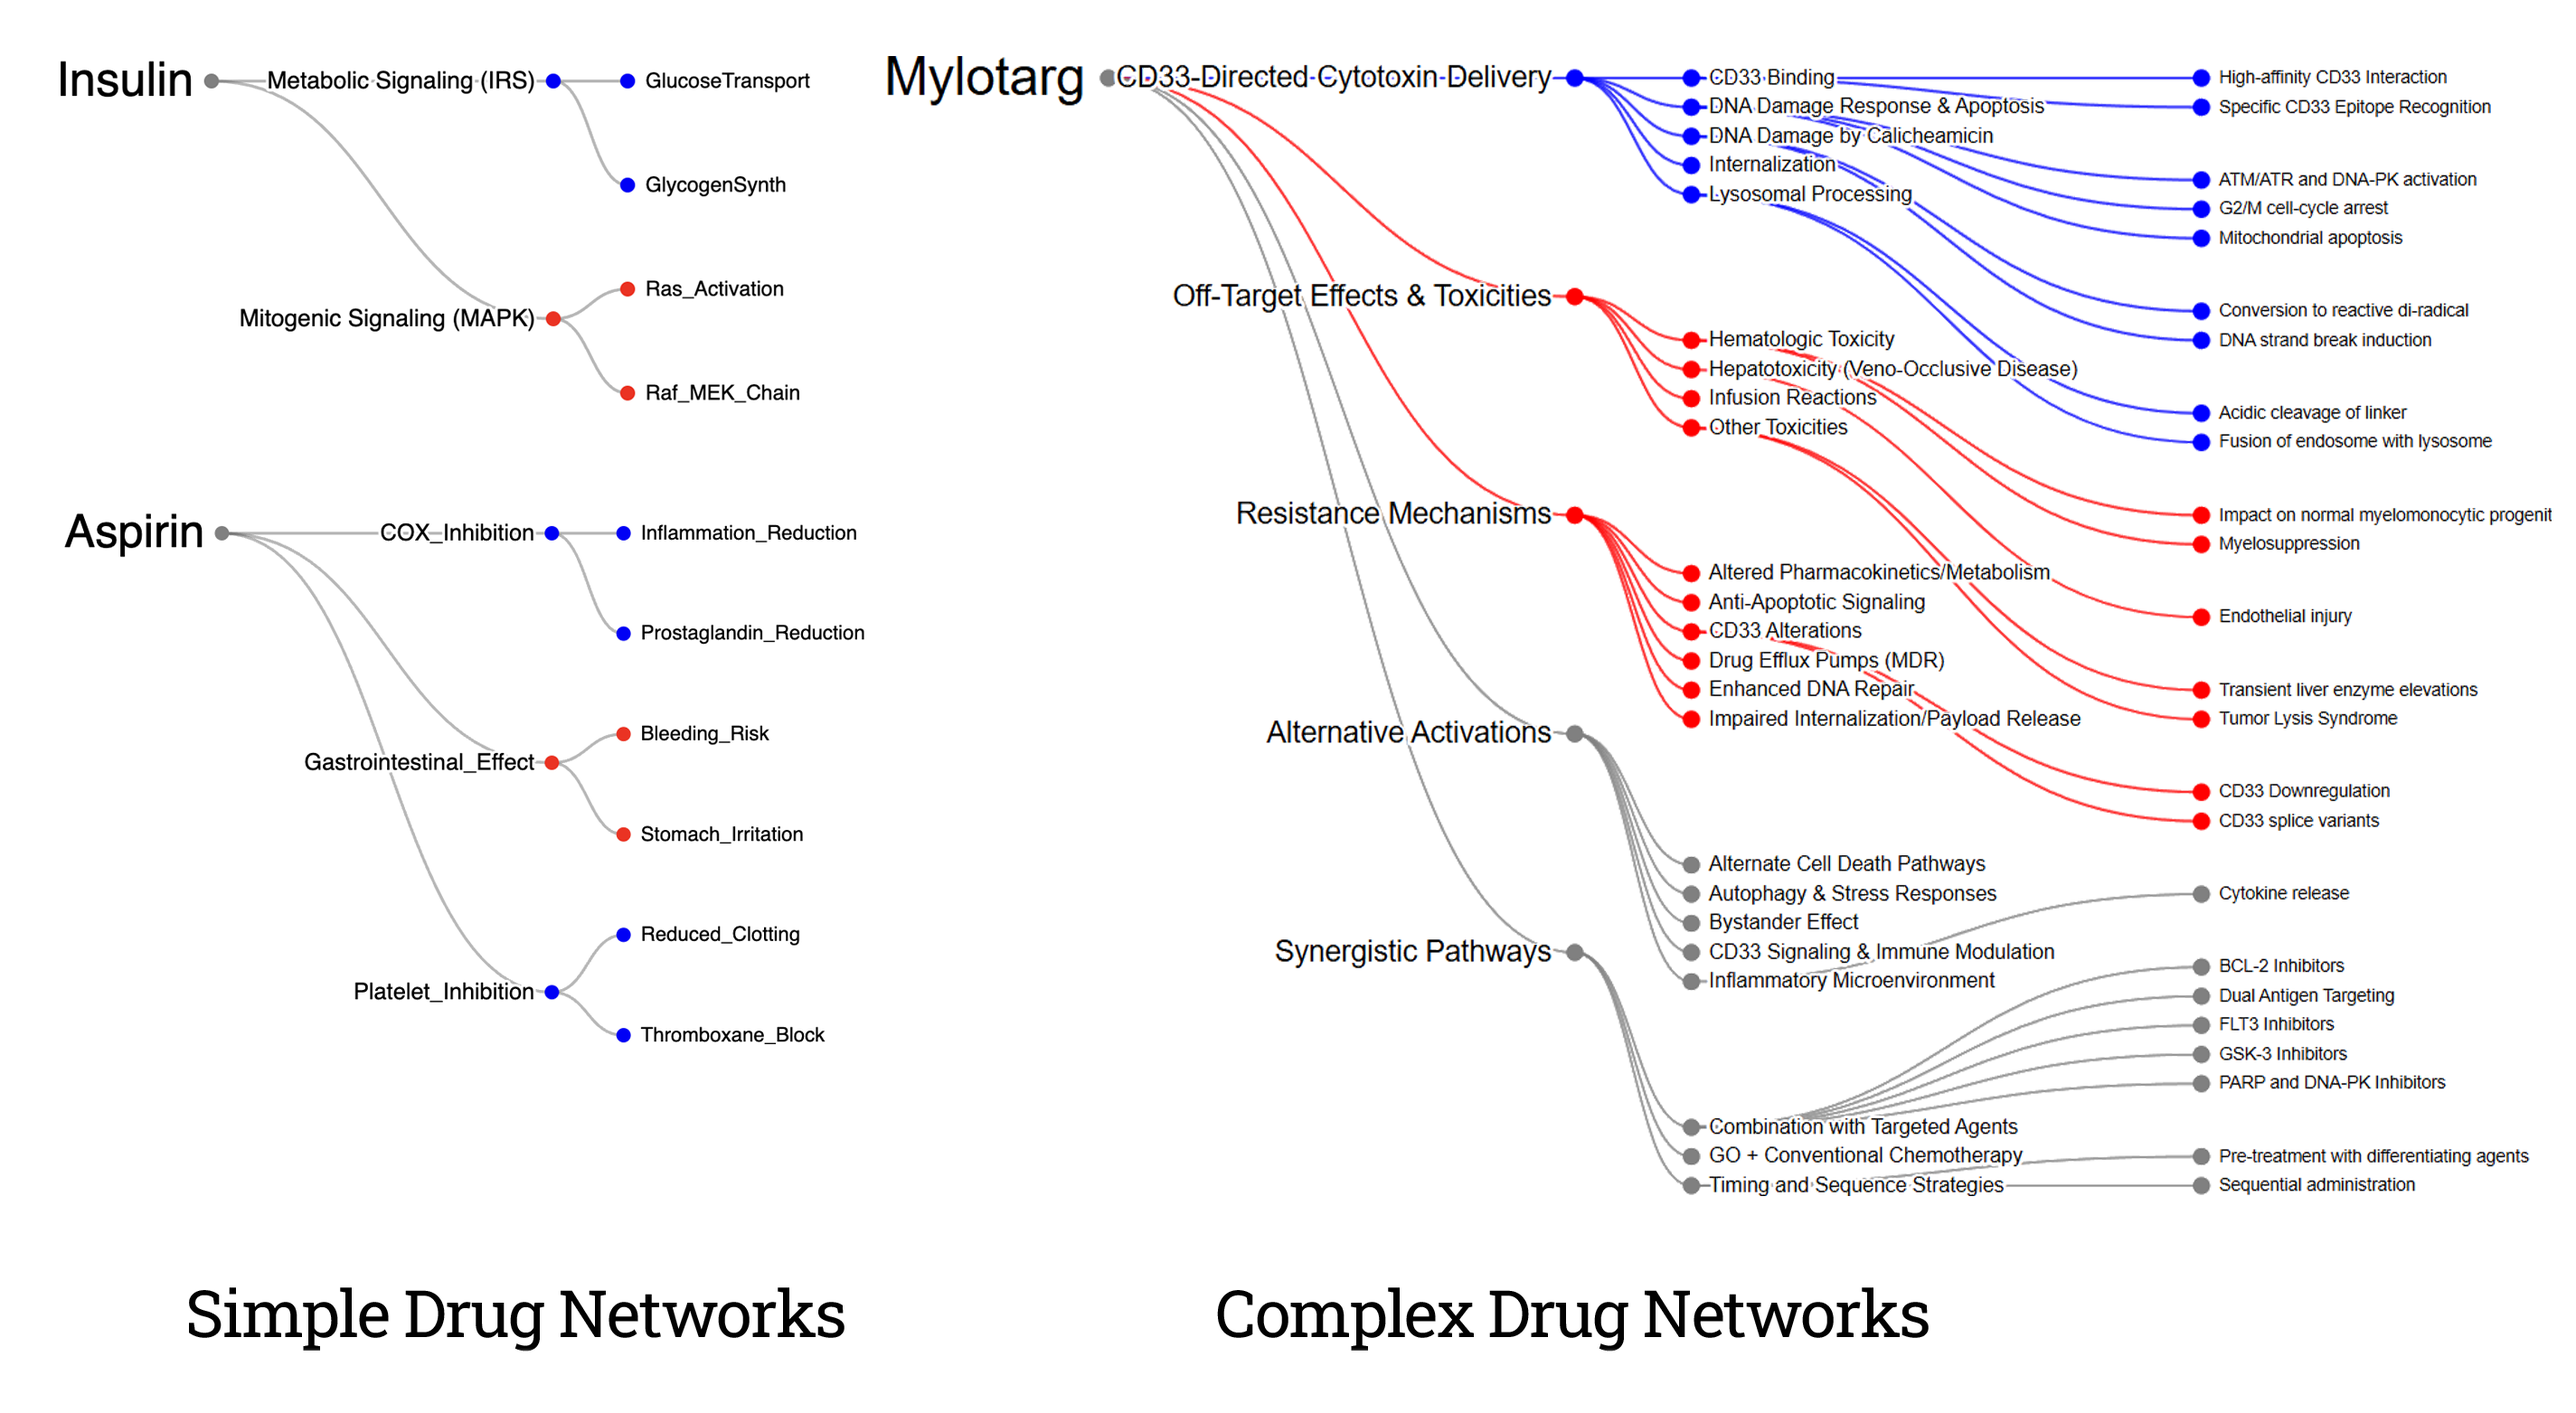
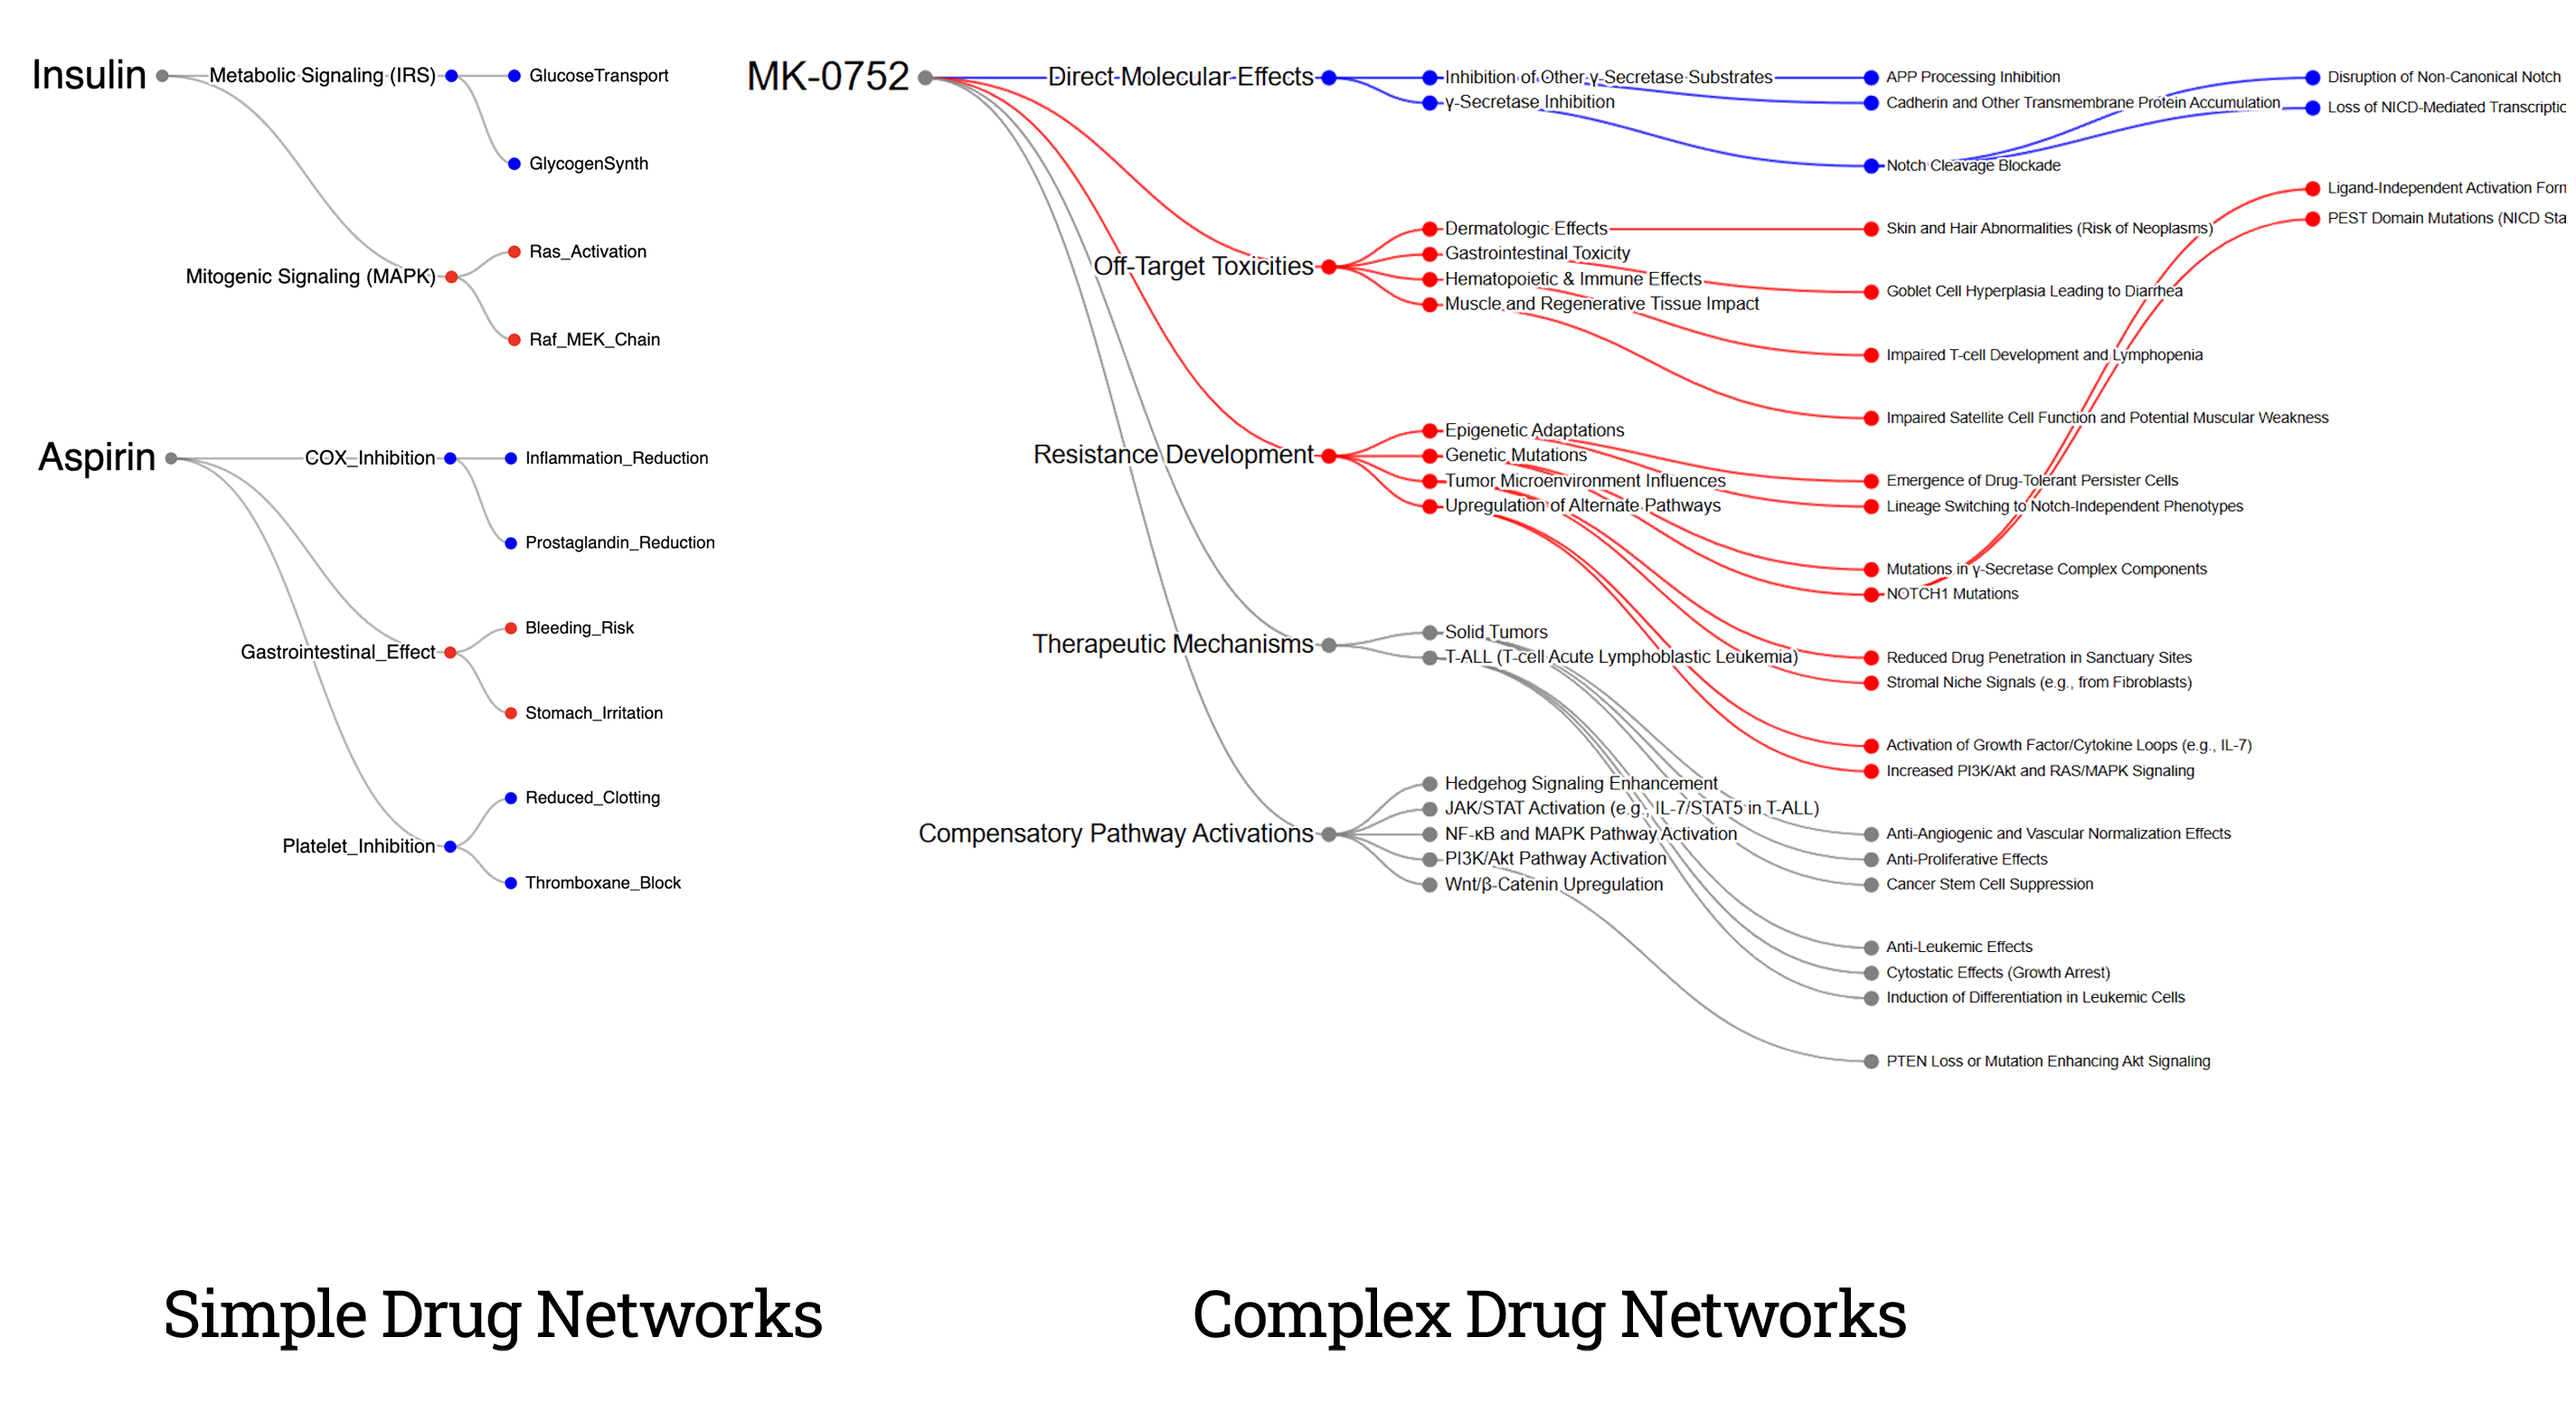
overview update

diff --git a/src/app/dataroom/docs/A_Overview/B_Overall_Summary.tsx b/src/app/dataroom/docs/A_Overview/B_Overall_Summary.tsx
@@ -9,7 +9,7 @@ const OverallSummary: React.FC = () => {
         From a Bird&#39;s-Eye View:
       </h2>
 
-      <p className="roboto-slab-light text-base mb-10 mt-12 leading-relaxed">
+      <p className="roboto-slab-light text-base mb-4 mt-12 leading-relaxed">
         <strong> Most of biology is too complicated </strong> for humans to understand and engineer predictably. 
         While drug development strategies may be derived from good science, most success stories 
         are the result of painful trial and error. The failure rate of modern clinical trials is a 
@@ -31,7 +31,7 @@ const OverallSummary: React.FC = () => {
       </p>
 
       
-      <p className="roboto-slab-light text-base text-verydark mb-2 mt-10 leading-relaxed">
+      <p className="roboto-slab-light text-base text-verydark mt-16 leading-relaxed">
         <strong>Tactically speaking, </strong> we&#39;re starting by training our models on the &#39;action&#39; 
         layer of biology -- the transcriptome. It&#39;s one of the most fundamental, diverse, 
         and data-scalable signatures of activity within and between cells.
@@ -39,28 +39,31 @@ const OverallSummary: React.FC = () => {
         especially when large pools of diverse training data are available.
       </p>
 
-      <p className="roboto-slab-light text-base text-verydark mb-4 mt-2 leading-relaxed">
-        <strong>We&apos;re beginning by </strong> harvesting publicly available multi-species scRNA (single cell RNA) 
-        datasets with a bias toward human and
-        <strong><i> Danio rerio</i> (zebrafish)</strong> as the foundation. 
+      <p className="roboto-slab-light text-base text-verydark mt-6 leading-relaxed">
+        Fortunately there are a lot of publicly available multi-species scRNA (single cell RNA) 
+        datasets. We&apos;re harvesting across vertebrate and invertebrate species with a bias toward human and
+        <strong><i> Danio rerio</i> (zebrafish)</strong> for our early MVPs. As we 
+        grow and learn about the gaps we&apos;ll generate custom datasets to fill them.
       </p>
         
-      <p className="roboto-slab-light text-base text-verydark mb-4 mt-2 leading-relaxed">
+      <p className="roboto-slab-light text-base text-verydark mb-4 mt-6 leading-relaxed">
         <strong>Why the bias toward zebrafish? </strong>
         We&apos;re confident custom data will be necessary to strengthen our models as we specialize them
         toward state-of-the-art performance on a drug-by-drug basis.
         We&apos;ve selected zebrafish as the optimal model organism for custom data generation because
-        it is the most human-like model organism that is low-cost, high-scale, and increasingly popular
-        in FDA-approved pre-clinical settings. 
+        it is the most human-like model organism that is also low-cost, high-scale, and increasingly popular
+        in FDA-approved pre-clinical settings. Technically speaking, it&apos;s also possible to do scRNA
+        sequencing on whole-organism zebrafish, which means crucial cross-organ relationships are capturable,
+        a feature not possible at reasonable prices with mice.  
       </p>
       
       <p className="roboto-slab-light text-base text-verydark mb-2 mt-10 leading-relaxed">
-        <strong> We will run the data cycle continuously </strong> over the life of the 
-        company to keep improving our biological foundation models. 
+        <strong> We will run our data cycle continuously </strong> over the life of the 
+        company to keep improving our biological foundation models for each new drug development project. 
         In its first incarnation, each turn of the cycle involves growing zebrafish,
         creating healthy, disease, and perturbation varieties,
         performing scRNA sequencing, using the results to train and fine-tune our models,
-        learning from the inference results, and finally designing the next generation of
+        learning from the inference results, and -- finally -- designing the next generation of
         experiments. By intelligently filling data gaps and fine-tuning our model architecture 
         over many generations, we expect to become the gold-standard for transcriptomic effect prediction
         for the drug categories we choose to specialize in.
@@ -76,9 +79,9 @@ const OverallSummary: React.FC = () => {
         />
       </div>
       <p className="roboto-slab-extralight text-xxsm mb-20 mt-0 leading-relaxed">
-        The data cycle represents our fundamental development loop. As Zeroshot Biolabs begins exploring
-        specialization into different specific disease pathways, crucial new data will be generated 
-        through experiments on real animal model organisms. 
+        The Data Cycle represents our model development process. For each disease pathway we study,
+        drug perturbation experiments on healthy and disease-model zebrafish will generate fresh scRNA sequencing data
+        to train and fine-tune our biological foundation model to achieve state-of-the-art performance. 
       </p>
 
       <p className="roboto-slab-light text-base text-verydark mb-4 leading-relaxed">
@@ -107,18 +110,24 @@ const OverallSummary: React.FC = () => {
       </p>
 
       <p className="roboto-slab-light text-base text-verydark mb-4 leading-relaxed">
-        <strong>What categories of therapeutics should we develop core competency for? </strong>
-      </p>
+        <strong>Given our vision and capabilities, </strong>we now have the liberty to decide which therapeutic categories 
+        to target first. Our intuition is that it will be the diseases most fundamentally driven by gene
+        regulatory network abnormalities that stand to benefit the most from the transcriptomic biological foundation 
+        models we&apos;re building. 
+      </p>      
 
       <p className="roboto-slab-light text-base text-verydark mb-4 leading-relaxed">
-        <strong> Drug candidates </strong> that target powerful but sensitive &#39;master regulator&#39; sites
-        are some of the most promising but difficult to harness. The chain of events
-        that follow often have deep gene regulatory effects that either result in unexpected
-        toxicity or inconsistent efficacy across species. 
-        The self-attention transformer architecture is especially well suited for capturing
-        context-dependent, long-range interaction effects in transcriptomically complex diseases like these. 
-        
-      </p>
+        That&apos;s why we&apos;ve chosen to analyze the landscape disease targets through the lens of transcriptomic complexity.
+        Diseases within chaotic, hard-to-model gene regulatory networks are the most difficult for scientists
+        to confidently develop effective, non-toxic drugs for. These networks are often very sensitive to perturbation,
+        meaning that small changes in the expression of one gene can have large downstream effects on other cells, tissues,
+        and even entire organ systems. 
+      </p>     
+
+      <p className="roboto-slab-light text-base text-verydark mb-4 leading-relaxed">
+        It&apos;s exactly in this kind of environment that our biological foundation models will thrive.
+      </p>     
+
 
       <div className="w-full">
         <Image
@@ -130,16 +139,18 @@ const OverallSummary: React.FC = () => {
         />
       </div>
       <p className="roboto-slab-extralight text-xxsm mb-20 mt-4 leading-relaxed">
-        Transcriptomically simple versus transcriptomically complex disease pathways are visualized in this side-by-side comparison.
+        Transcriptomically simple versus transcriptomically complex disease pathways are visualized 
+        in this side-by-side comparison.
         On the left, drugs like Insulin and Aspirin have relatively simple
-        positive and negative pathway effects. On the right, a drug like Mylotarg involves a complex cascade of events 
-        relevant to its efficacy (blue) and toxicity (red). Most diseases have transcriptomically complex efficacy and toxicity
-         effects, more like Mylotarg than insulin. 
+        positive and negative pathway effects. On the right, a modern leukemia drug like MK-0752 invokes a 
+        complex, sensitive cascade of events crucial to its efficacy (blue) and toxicity (red). 
+        Most diseases we&apos;d like to develop treatments for have transcriptomically complex efficacy and toxicity
+        effects, more like MK-0752 than insulin. 
       </p>
 
 
       <p className="roboto-slab-light text-base text-verydark mb-4 leading-relaxed">
-        <strong>How do we make money? </strong>
+        <strong>So, how do we make money? </strong>
       </p>
       <p className="roboto-slab-light text-base text-verydark mb-4 leading-relaxed">
         <strong>There are two major pathways available to us.</strong> Either we pursue a SaaS-style 
